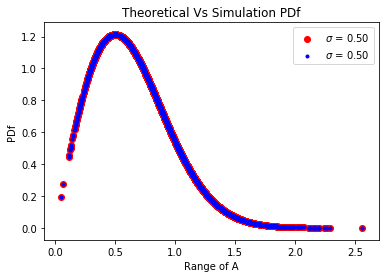
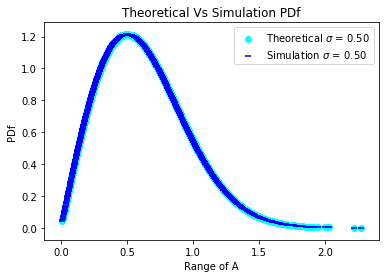
Update code Assignment-1

diff --git a/Assignment-1/Codes/RayleighDist_CDF_PDf_Plot.py b/Assignment-1/Codes/RayleighDist_CDF_PDf_Plot.py
@@ -52,7 +52,7 @@ def theory_sim(dof, s):
     sim_len = int(1e4)
     X = np.zeros(shape=(degreeOfFreedom, sim_len), dtype=float)
     for i in range(degreeOfFreedom):        
-        X[i, :] = stats.rayleigh.rvs(loc=0, scale=s, size=sim_len)
+        X[i, :] = np.random.normal(loc=0, scale=s, size=sim_len)
     
     A = np.zeros(shape=sim_len, dtype=float)
     sim_pdf = np.zeros(shape=sim_len, dtype=float)
@@ -70,15 +70,17 @@ def theory_sim(dof, s):
     sim_cdf = calcCDF(A, s)
     
     labl = '$\sigma$ = %.2f' %s
-    plot(A, theo_pdf, sim_pdf, 'red', 'blue', 'PDf', labl)
+    plot(A, theo_pdf, sim_pdf, 'cyan', 'blue', 'PDf', labl)
     print('\n\n\n\n')
-    plot(A, theo_cdf, sim_cdf, 'green', 'black', 'CDF', labl)
+    plot(A, theo_cdf, sim_cdf, 'yellow', 'red', 'CDF', labl)
     print('\n\n\n\n')
 
 # Utiltity method to help plotting
 def plot(x, ytheo, ysim, col1, col2, dist, l):
-    plt.scatter(x, ytheo, color=col1, marker="o", label=l)
-    plt.scatter(x, ysim, color=col2, marker=".", label=l)
+    theo_label = 'Theoretical ' + l
+    plt.scatter(x, ytheo, color=col1, marker="o", label=theo_label)
+    sim_label = 'Simulation ' + l
+    plt.scatter(x, ysim, color=col2, marker="_", label=sim_label)
     plt.legend()
     plt.xlabel('Range of A')
     plt.ylabel(dist)

diff --git a/Assignment-1/LaTeX/Solution.tex b/Assignment-1/LaTeX/Solution.tex
@@ -236,9 +236,9 @@ The plot of this equation is shown in Fig 1.4.
     \caption*{Fig 1.4: PDf plot from derived equation}
 \end{figure}
 \newpage
-\text{The theoretical along with simulated PDf and CDF plot of 10,000 samples of Rayleigh random variables}
+\text{The theoretical along with simulated PDf and CDF plot of 10,000 samples of two normal random variables}
 \newline 
-\text{is shown in Fig 1.5 and Fig 1.6 -}
+\text{which are further squarred, summed and taken square root of is shown in Fig 1.5 and Fig 1.6 -}
 
 \begin{figure}[h!]
     \includegraphics[width=14cm]{Assignment-1/Codes/Figures/theo_Vs_sim_pdf.png}
